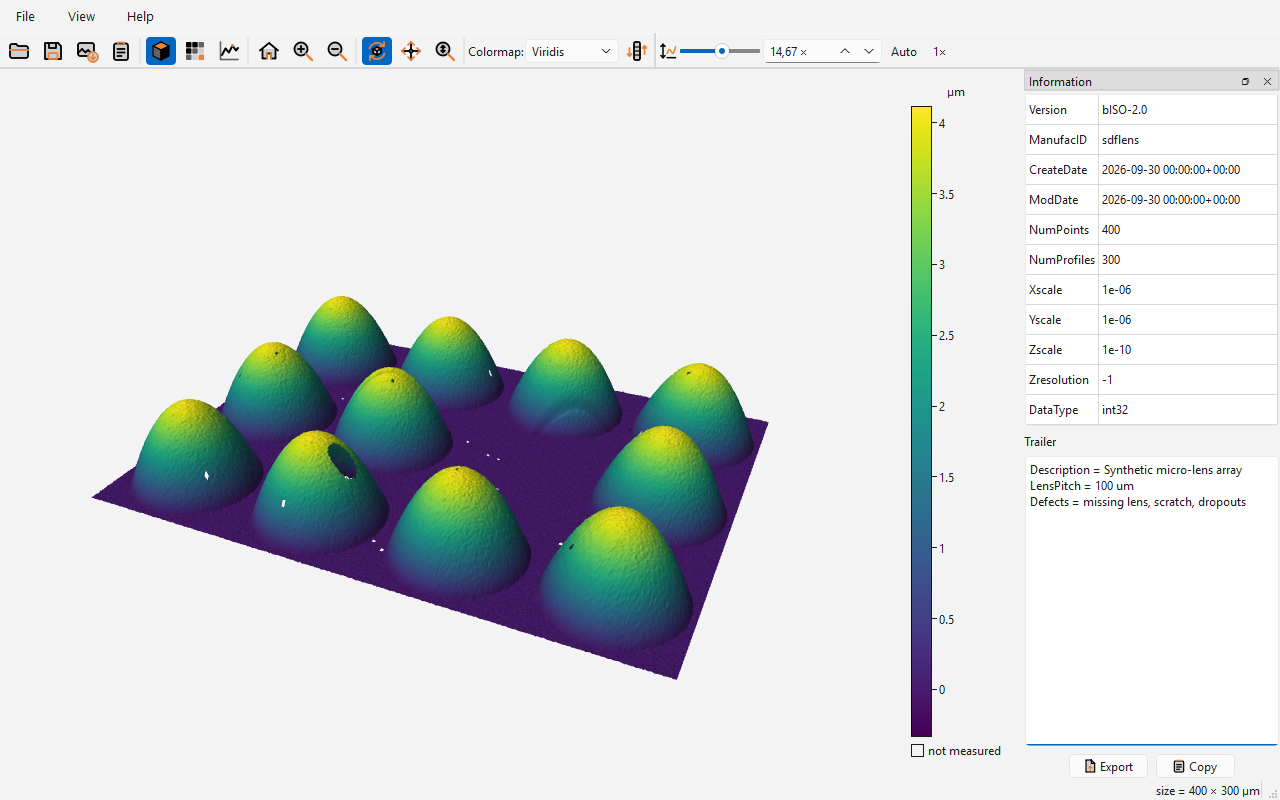
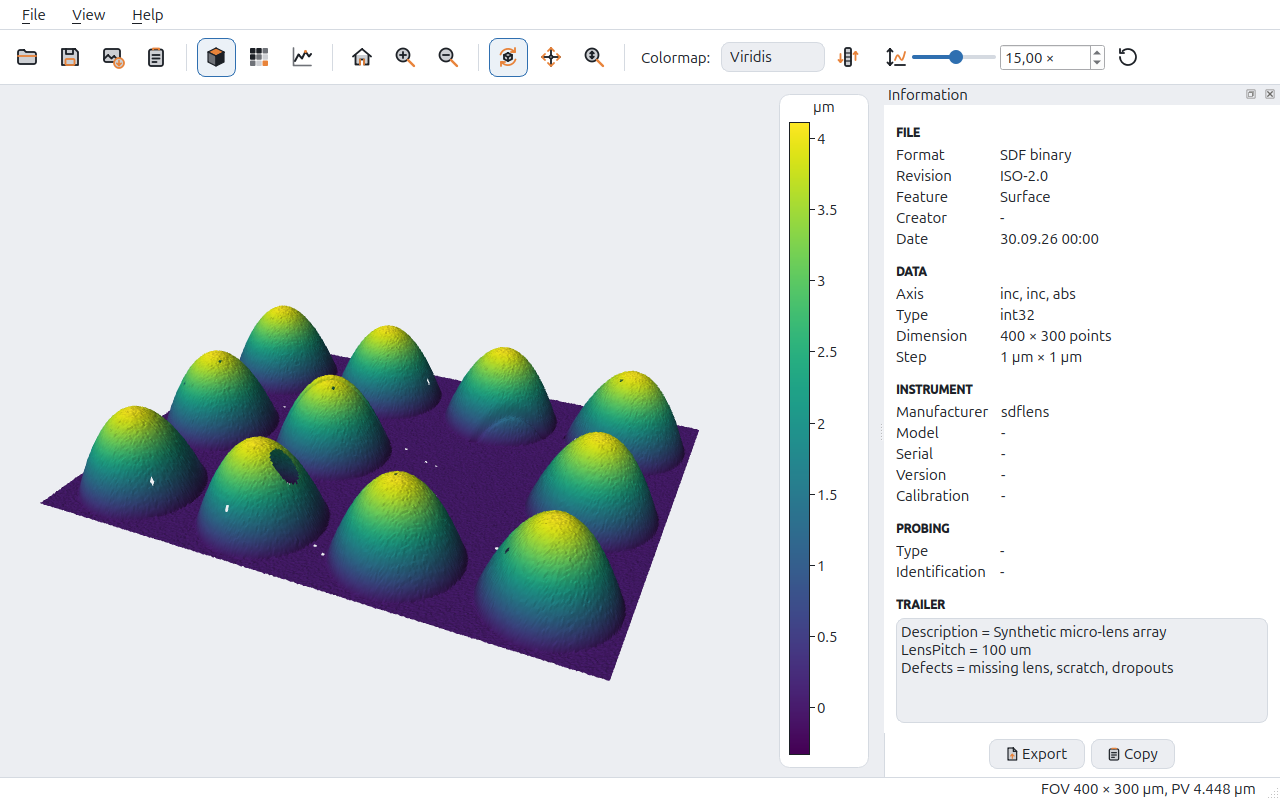
Take the README screenshot with the new look

Changed region(s): [[0.0312, 0.125, 0.6562, 0.9375], [0.0, 0.0, 1.0, 1.0], [0.8125, 0.5625, 0.9688, 0.6562]]

diff --git a/tools/make_screenshot.py b/tools/make_screenshot.py
@@ -14,17 +14,19 @@ import sys
 import tempfile
 from pathlib import Path
 
-from PySide6.QtCore import QCoreApplication, QEventLoop, QSettings, QTimer
+from PySide6.QtCore import QCoreApplication, QEventLoop, QSettings, Qt, QTimer
 from PySide6.QtGui import QSurfaceFormat
 from PySide6.QtWidgets import QApplication
 
 from sdflens.mainwindow import MainWindow
+from sdflens.theme import apply_theme
 
 ROOT = Path(__file__).parent.parent
 SAMPLE = ROOT / "samples" / "microlens-array.sdf"
 OUTPUT = ROOT / "docs" / "screenshot.png"
 SIZE = (1280, 800)
 COLORMAP = "Viridis"
+Z_FACTOR = 15.0  # files open at true scale, which shows the lenses too flat
 
 
 def settle(loop: QEventLoop, milliseconds: int = 500) -> None:
@@ -43,7 +45,9 @@ def main() -> int:
     surface_format.setSamples(4)
     QSurfaceFormat.setDefaultFormat(surface_format)
 
-    QApplication(sys.argv[:1])  # must exist before any widget
+    app = QApplication(sys.argv[:1])  # must exist before any widget
+    app.styleHints().setColorScheme(Qt.ColorScheme.Light)
+    apply_theme(app)
     QCoreApplication.setOrganizationName("sdflens-screenshot")
     QCoreApplication.setApplicationName("sdflens-screenshot")
     settings_dir = tempfile.mkdtemp()
@@ -58,7 +62,7 @@ def main() -> int:
     window._loader.loaded.connect(lambda *_: loop.quit())
     window.load_file(str(SAMPLE))
     loop.exec()
-    window._z_bar._auto.trigger()  # files open at true scale, which shows the lenses too flat
+    window._z_bar.set_factor(Z_FACTOR)
     window._zoom_in_action.trigger()
     settle(loop)  # let the GL view draw the loaded surface
     window.statusBar().clearMessage()
